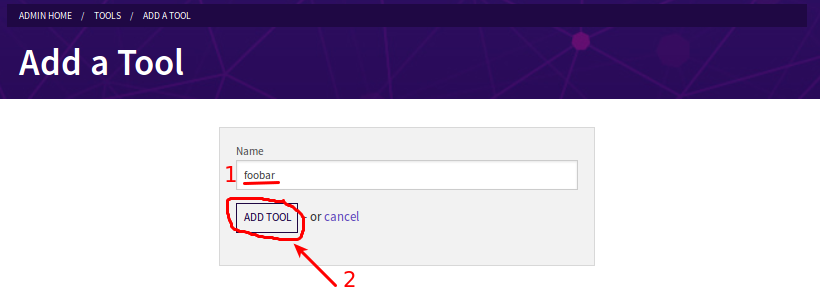
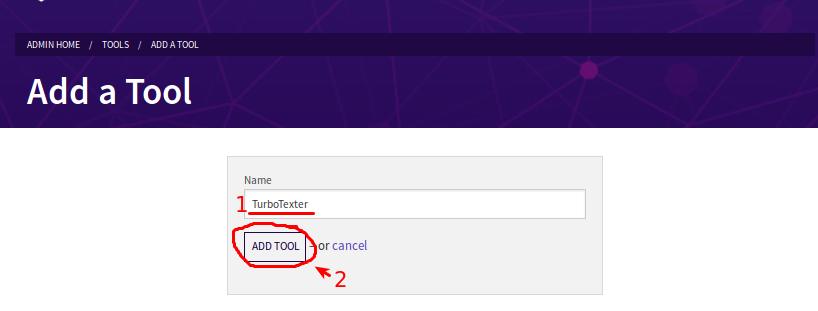
Correction of tool names in screenshots

Changed region(s): [[0.0, 0.0, 1.0, 0.4515], [0.2751, 0.4816, 0.7335, 0.9632]]

diff --git a/documentation/user_manual/readme.md b/documentation/user_manual/readme.md
@@ -193,10 +193,14 @@ Just pick a data source from the menu and click "Attach data source"...
 Editing an existing tool
 ------------------------
 
-First you need to find the the tool in the admin section listings. Here we will use the classical "foobar" as an example.
+First you need to find the the tool in the admin section listings. Here we will use the tool we added earlier as an example.
 
 ![Editing a tool in the admin section listing](./images/selecting_a_tool_in_the_admin_section_listing.png)
 *To view/edit a tool, just click on its name in the admin section listing*
+
+- 1) Click on the name of the tool to view it...
+- 2) ...or you can click on the "i" symbol
+- 3) To change the name of the tool, click on the "pen" symbol
 
 Removing an existing tool
 -------------------------
